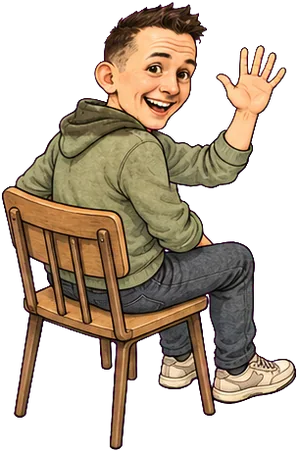
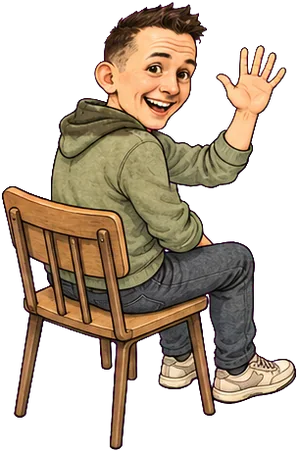
fix(room): no bump on the left of mini Peter's back that read as a third arm

Changed region(s): [[0.0302, 0.2788, 0.2114, 0.4646], [0.2114, 0.2478, 0.2416, 0.2788]]

diff --git a/components/room/tools/fixes.py b/components/room/tools/fixes.py
@@ -24,7 +24,10 @@ FIXES = {
         # properly attached (peter-wave-fix-2.png, which also wrongly moved the wave to the other
         # arm), with the original waving arm (via peter-wave-fix.png) put back. All three line up
         # with the original to the pixel, so only the band across the shoulders is taken.
-        ("peter-wave-fix-3", (1100, 500, 1440, 1010), [(0, 40), (340, 40), (340, 240), (0, 240)], 6),
+        # peter-wave-fix-4.png then smooths the left of his back, where the hoodie bulged out like a
+        # third arm above the chair (a repaint of fix-3, peter-wave-back-edit.png, blended in only on
+        # that patch; prompts/peter-wave-fix-4.txt).
+        ("peter-wave-fix-4", (1100, 500, 1440, 1010), [(0, 40), (340, 40), (340, 240), (0, 240)], 6),
     ],
 }
 

diff --git a/.claude/skills/pocket-room-art/SKILL.md b/.claude/skills/pocket-room-art/SKILL.md
@@ -41,8 +41,9 @@ re-explore a rejected direction unless he asks.
   avatar (a shouting selfie at the torii).
 - Anatomy: check that each arm comes from its own shoulder, and ask Peter how the pose should read.
   The wave pose took three tries: the lap hand grew out of the waving shoulder, the first fix
-  removed the lap hand, the second moved the wave to the wrong arm. He sits twisted towards the
-  camera, so both hands are right of his head.
+  removed the lap hand, the second moved the wave to the wrong arm, and a bump on the back still
+  read as an elbow. He sits twisted towards the camera, so both hands are right of his head and
+  nothing sticks out on the left.
 - Rejected along the way: a riso/halftone two-ink print look, "live trick" HTML illustrations,
   screenshots on mini devices, scrapbook field notes, full-page manga repaints, and the room going
   dark at night.
@@ -55,7 +56,7 @@ re-explore a rejected direction unless he asks.
 | View through the window | `view.webp` | `art/view.png` | `prompts/view.txt` | `mock-screen.png`, `plate-a.png` | `build.py` |
 | Trains | `train-shinkansen.webp`, `train-local.webp` | `art/trains.png` (on magenta) | `prompts/trains.txt` | `mock-screen.png` | `build.py` |
 | Peter's six poses | `peter-*.webp` | `art/peter-sheet.png` (on magenta) | `prompts/peter.txt` | `mock-screen.png`, `art/peter-character-ink.jpg`, `art/peter-photo.png` | `build.py` |
-| Peter's wave, arms fixed (twisted towards the camera, both hands right of his head: waving beside his face, the other on his lap; combined from `peter-wave-fix.png` and `peter-wave-fix-2.png`, see `fixes.py`) | `peter-wave.webp` | `art/fixes/peter-wave-fix-3.png` | `prompts/peter-wave-fix.txt`, `prompts/peter-wave-fix-2.txt` | `art/fixes/peter-wave-crop.png` | `fixes.py` (inside `build.py`) |
+| Peter's wave, arms fixed (twisted towards the camera, both hands right of his head: waving beside his face, the other on his lap; combined from `peter-wave-fix.png` and `peter-wave-fix-2.png`, see `fixes.py`) | `peter-wave.webp` | `art/fixes/peter-wave-fix-4.png` | `prompts/peter-wave-fix.txt`, `-fix-2.txt`, `-fix-4.txt` | `art/fixes/peter-wave-crop.png` | `fixes.py` (inside `build.py`) |
 | Notebooks, cat, mug, printed part | `notebook-*.webp`, `cat.webp`, `part.webp` | `art/props.png` (on magenta) | `prompts/props.txt` | `art/plate-b.png` | `build.py` |
 | App-screen object cards | `card-<id>.webp` | `art/cards/<id>.png` (on magenta) | `prompts/card-<id>.txt` | plate crop (`cards.py refs`), `plate-b.png` | `cards.py` |
 | Project cards | `projects/<slug>.webp` and `projects/<slug>-pencil.webp` | `art/projects/<slug>.png` (on paper) | `prompts/project-<slug>.txt` | the real screenshot or photo in `art/projects/refs/` (+ `art/plate-b.png` as the style) | `projects.py` |
